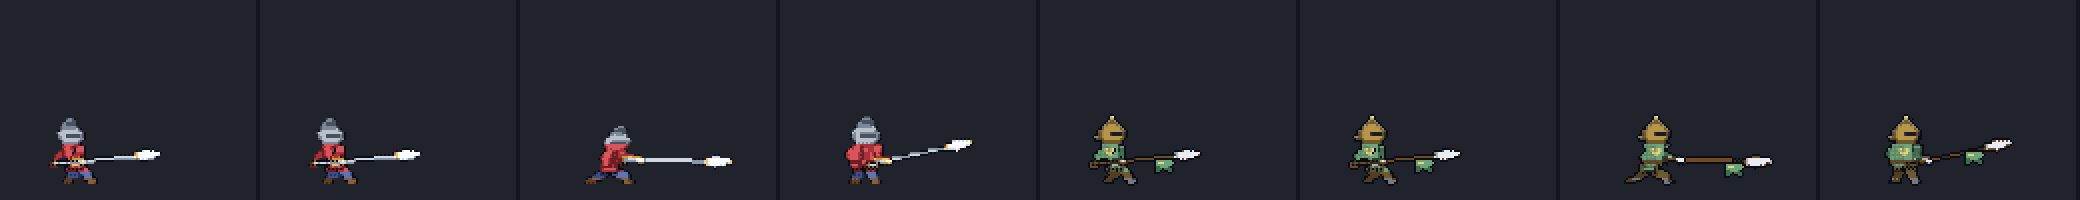
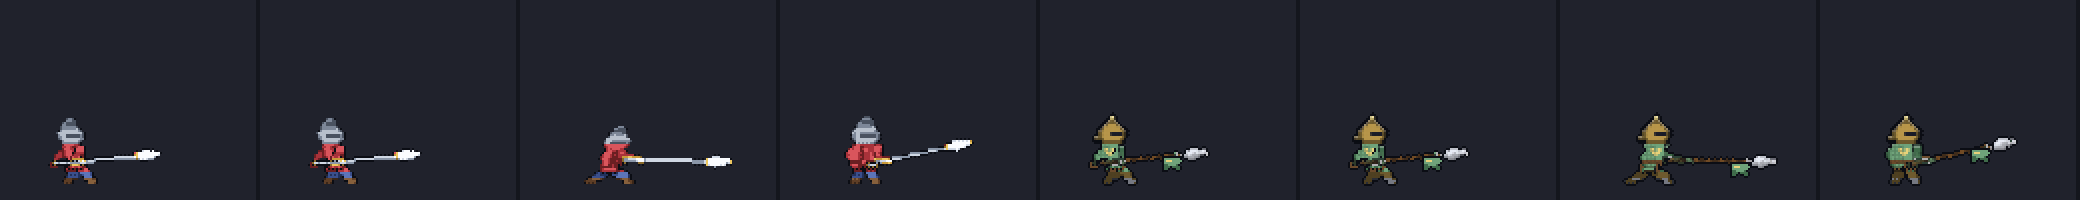
무기 덧그리기 공용 모듈 dev/sheets-common/wpn.py (손 점·각도에 직업 무기를 RotSprite 로 얹기), 창기사 계열 7종 입히기에 적용 (0회)

diff --git a/dev/sheets-common/wpn.py b/dev/sheets-common/wpn.py
@@ -1,0 +1,152 @@
+# 무기 덧그리기 (계열 공용, docs/specs/legacy-class-sheets.md — 2026-10-16 사용자 결정 "무기는 덧그리기, 0회").
+#  원형 마네킹 프레임의 무기(마네킹 모양)를 지우고, 그 자리 손잡이 점·각도에 원래 직업 무기 그림을 돌려 얹는다.
+#  돌리기는 RotSprite 식(크게 키워 nearest 회전 → 칸 가운데 표본으로 줄이기)이라 1px 선이 끊기지 않는다.
+#
+#  쓰는 법 (PIL RGBA, 알파 0/255):
+#    from wpn import WeaponSprite, overlay
+#    ws = WeaponSprite.from_capture(full, wcol, grip)       # 직업 그림 + 무기 색만 바꿔 찍은 그림 → 무기 그림, grip = 손 점 (x, y)
+#    out = overlay(frame, frame_wpn_mask, grip_xy, tip_xy, ws, front=glove_pts)
+#      frame_wpn_mask: 지울 무기 칸 집합 {(x,y)}, grip_xy: 프레임의 손 점, tip_xy: 무기 끝 쪽 아무 점 (방향만 쓴다)
+#      front: 무기 위에 다시 그릴 칸 (손·장갑) 집합
+#  보조: axis(pts) 주축, grip_tip(wpn_pts, glove_pts) 손 점과 끝 점, diff_pts(a, b) 두 그림이 다른 칸
+#  python -I -B wpn.py  → 자기 시험 (가짜 막대를 돌려 얹기)
+import math
+from PIL import Image
+
+OUT_C = (0x0b, 0x0d, 0x14, 255)
+
+
+def diff_pts(a, b):
+    """두 그림이 다른 칸 (무기 색만 바꿔 찍은 캡처와 비교 → 무기 칸)"""
+    A, B = a.load(), b.load()
+    return {(x, y) for y in range(a.height) for x in range(a.width) if (A[x, y][3] or B[x, y][3]) and A[x, y] != B[x, y]}
+
+
+def axis(pts):
+    """점들의 가운데와 주축 단위벡터 (2×2 공분산의 큰 고유벡터)"""
+    n = len(pts); cx = sum(p[0] for p in pts) / n; cy = sum(p[1] for p in pts) / n
+    sxx = sum((p[0] - cx) ** 2 for p in pts) / n; syy = sum((p[1] - cy) ** 2 for p in pts) / n; sxy = sum((p[0] - cx) * (p[1] - cy) for p in pts) / n
+    a = 0.5 * math.atan2(2 * sxy, sxx - syy)
+    return (cx, cy), (math.cos(a), math.sin(a))
+
+
+def grip_tip(wpn_pts, glove_pts):
+    """무기 칸과 손(장갑) 칸 → (손 점, 끝 점). 손 점 = 손 가운데를 무기 축에 내린 발, 끝 = 손에서 먼 쪽 끝"""
+    c, d = axis(list(wpn_pts))
+    ts = [(p[0] - c[0]) * d[0] + (p[1] - c[1]) * d[1] for p in wpn_pts]
+    t0, t1 = min(ts), max(ts)
+    if glove_pts:
+        gx = sum(p[0] for p in glove_pts) / len(glove_pts); gy = sum(p[1] for p in glove_pts) / len(glove_pts)
+        tg = (gx - c[0]) * d[0] + (gy - c[1]) * d[1]
+    else:
+        tg = t0 + (t1 - t0) * 0.3
+    tg = max(t0, min(t1, tg))
+    tt = t1 if abs(t1 - tg) >= abs(t0 - tg) else t0
+    P = lambda t: (c[0] + d[0] * t, c[1] + d[1] * t)
+    return P(tg), P(tt)
+
+
+class WeaponSprite:
+    """무기 그림 한 장 + 손 점 + 손→끝 각도"""
+
+    def __init__(self, img, grip, ang):
+        self.img, self.grip, self.ang = img, grip, ang
+
+    @classmethod
+    def from_capture(cls, full, wcol, glove_pts):
+        pts = diff_pts(full, wcol)
+        F = full.load(); W, H = full.size
+        img = Image.new('RGBA', (W, H)); O = img.load()
+        for p in pts:
+            if F[p][3]: O[p] = F[p]
+        g, t = grip_tip(pts, glove_pts)
+        bb = img.getbbox()
+        img = img.crop(bb); g = (g[0] - bb[0], g[1] - bb[1]); t = (t[0] - bb[0], t[1] - bb[1])
+        return cls(img, g, math.atan2(t[1] - g[1], t[0] - g[0]))
+
+
+def rotsprite(img, deg, pivot, S=8):
+    """pivot 칸 둘레로 deg 도(화면 기준 시계 방향 +) 돌린 그림과 새 pivot 칸. 크게 키워 nearest 로 돌리고 칸 가운데를 표본"""
+    W, H = img.size; px, py = int(round(pivot[0])), int(round(pivot[1]))
+    r = int(math.ceil(max(math.hypot(x - px, y - py) for x in (0, W) for y in (0, H)))) + 2
+    D = 2 * r + 1                                  # pivot 칸이 정가운데 (r, r) 에 오는 정사각 캔버스
+    pad = Image.new('RGBA', (D, D)); pad.paste(img, (r - px, r - py))
+    big = pad.resize((D * S, D * S), Image.NEAREST)
+    R = big.rotate(-deg, resample=Image.NEAREST, center=(D * S / 2, D * S / 2)); RP = R.load()
+    out = Image.new('RGBA', (D, D)); O = out.load()
+    for y in range(D):
+        for x in range(D):
+            c = RP[x * S + S // 2, y * S + S // 2]
+            O[x, y] = c if c[3] >= 128 else (0, 0, 0, 0)
+    return out, (r, r)
+
+
+def fill_holes(im, holes):
+    """지운 무기 자리 중 몸 안쪽(양쪽에 칠한 칸이 있는 곳)을 옆 색으로 메운다"""
+    P = im.load(); W, H = im.size
+    left = set(holes)
+    for _ in range(3):
+        done = set()
+        for (x, y) in left:
+            if P[x, y][3]: done.add((x, y)); continue
+            nb = [(x + a, y + b) for a, b in ((1, 0), (-1, 0), (0, 1), (0, -1)) if 0 <= x + a < W and 0 <= y + b < H]
+            opq = [q for q in nb if P[q][3] and q not in left]
+            horiz = sum(1 for q in opq if q[1] == y) == 2; vert = sum(1 for q in opq if q[0] == x) == 2
+            if horiz or vert or len(opq) >= 3:
+                cs = [P[q] for q in opq if P[q] != OUT_C] or [P[q] for q in opq]
+                P[x, y] = max(set(cs), key=cs.count); done.add((x, y))
+        left -= done
+        if not done: break
+    return im
+
+
+def outline(im, keep=()):
+    """바깥 가장자리에 외곽선 (keep 칸은 건드리지 않음)"""
+    P = im.load(); W, H = im.size; add = []
+    for y in range(H):
+        for x in range(W):
+            if P[x, y][3]: continue
+            if any(0 <= x + a < W and 0 <= y + b < H and P[x + a, y + b][3] and P[x + a, y + b] != OUT_C for a, b in ((1, 0), (-1, 0), (0, 1), (0, -1))):
+                add.append((x, y))
+    for p in add: P[p] = OUT_C
+    return im
+
+
+def overlay(frame, wpn_mask, grip_xy, tip_xy, ws, front=(), line=True):
+    """frame 의 무기 칸을 지우고 ws 를 grip_xy 에 tip_xy 방향으로 얹는다. front 칸(손)은 무기 위로 다시 그린다"""
+    out = frame.copy(); O = out.load(); F = frame.load()
+    for p in wpn_mask: O[p] = (0, 0, 0, 0)
+    # 지운 칸에 붙은 외곽선 찌꺼기(무기 외곽선)도 지운다: 무기 칸 옆의 외곽선 중 몸 칸과 안 닿는 것
+    W, H = out.size
+    for (x, y) in list(wpn_mask):
+        for a in (-1, 0, 1):
+            for b in (-1, 0, 1):
+                q = (x + a, y + b)
+                if 0 <= q[0] < W and 0 <= q[1] < H and O[q] == OUT_C and q not in wpn_mask:
+                    if not any(0 <= q[0] + c < W and 0 <= q[1] + d < H and O[q[0] + c, q[1] + d][3] and O[q[0] + c, q[1] + d] != OUT_C
+                               and (q[0] + c, q[1] + d) not in wpn_mask for c, d in ((1, 0), (-1, 0), (0, 1), (0, -1))):
+                        O[q] = (0, 0, 0, 0)
+    fill_holes(out, wpn_mask)
+    ang = math.atan2(tip_xy[1] - grip_xy[1], tip_xy[0] - grip_xy[0])
+    rot, piv = rotsprite(ws.img, math.degrees(ang - ws.ang), ws.grip)
+    x0, y0 = round(grip_xy[0] - piv[0]), round(grip_xy[1] - piv[1])
+    R = rot.load()
+    for y in range(rot.height):
+        for x in range(rot.width):
+            c = R[x, y]
+            if c[3] and 0 <= x0 + x < W and 0 <= y0 + y < H: O[x0 + x, y0 + y] = c
+    for p in front:
+        if F[p][3]: O[p] = F[p]
+    return outline(out) if line else out
+
+
+if __name__ == '__main__':
+    # 자기 시험: 가로 막대(손 점 왼쪽 끝 근처)를 만들고 45° 아래로 얹기
+    full = Image.new('RGBA', (40, 20)); wcol = Image.new('RGBA', (40, 20))
+    for x in range(4, 36):
+        full.putpixel((x, 10), (200, 200, 220, 255)); wcol.putpixel((x, 10), (255, 0, 255, 255))
+    for x in (34, 35): full.putpixel((x, 9), (255, 255, 255, 255)); wcol.putpixel((x, 9), (255, 0, 255, 255))
+    ws = WeaponSprite.from_capture(full, wcol, [(8, 10)])
+    fr = Image.new('RGBA', (48, 48)); fr.putpixel((10, 10), (255, 0, 0, 255))
+    o = overlay(fr, set(), (10, 10), (30, 30), ws, front=[(10, 10)])
+    print('grip', ws.grip, 'ang', round(math.degrees(ws.ang), 1), 'bbox', o.getbbox())

diff --git a/dev/spear/dress.py b/dev/spear/dress.py
@@ -14,6 +14,8 @@ from parts import parts, lum, OUT_C, bands, diff_mask
 from mannequin import RAMP
 from dress import classify, ramp_of, anchor, big, solid, palette_of, comfy_pass
 from common import tidy
+sys.path.insert(0, os.path.join(HERE, '..', 'sheets-common'))
+from wpn import WeaponSprite, overlay, grip_tip, diff_pts
 
 CELL = {'spear': (96, (24, 84)), 'halberd': (128, (56, 112))}
 ARCH = {'lancer': 'spear', 'dragoon': 'spear', 'dragonlord': 'spear', 'cavalier': 'spear', 'skyGeneral': 'spear',
@@ -120,6 +122,12 @@ def dress(cls, M, ref_pose='guard'):
         q = mv(p, hoff)
         if p[1] < neck and inN(q) and not O[q][3]: O[q] = Gpx[p]
     pal = palette_of(G)
+    # 무기 덧그리기 (사용자 결정 2026-10-16): 마네킹 모양 무기를 지우고 원래 직업 무기를 같은 손 점·각도로 얹는다 (dev/sheets-common/wpn.py)
+    blade = {p for p, v in MP.items() if v[0] == 'blade'}; glove = [p for p, v in MP.items() if v[0] == 'glove']
+    if blade:
+        ws = WeaponSprite.from_capture(full, cap('p-' + cls, ref_pose, 'wcol', arch), [p for p, k in CP.items() if k == 'glove'])
+        g, t = grip_tip(blade, glove)
+        o = overlay(o, blade, g, t, ws, front=glove)
     return o, MP, pal, ramps
 
 
@@ -147,6 +155,16 @@ def geo(MP):
     tip = max(blade, key=lambda p: (p[0] - p[1] * 0.0)) if blade else None
     return dict(hx=(min(hrow) + max(hrow)) // 2, hy=hb, htop=min(y for _, y in helm), hx0=min(x for x, _ in helm), hx1=max(x for x, _ in helm),
                 tx0=tx0, tx1=tx1, ty0=ty0, ty1=ty1, tip=tip, blade=blade)
+
+
+def wpn_now(o, cls, pz):
+    """덧그린 프레임에서 직업 무기 칸 (무기 색에 가까운 칸 중 몸 오른쪽 위) — 깃발 자리 찾기용"""
+    W = Image.open(os.path.join(HERE, 'shots', f'p-{cls}-guard-full.png')).convert('RGBA')
+    cols = {c[:3] for c in (W.get_flattened_data() if hasattr(W, 'get_flattened_data') else W.getdata()) if c[3]}
+    full = cap('p-' + cls, 'guard', 'noacc', ARCH[cls]); wcol = cap('p-' + cls, 'guard', 'wcol', ARCH[cls])
+    F = full.load(); wc = {F[p][:3] for p in diff_pts(full, wcol) if F[p][3]} - {OUT_C[:3]}
+    O = o.load()
+    return [(x, y) for y in range(o.height) for x in range(o.width) if O[x, y][3] and O[x, y][:3] in wc]
 
 
 def feat_lancer(o, g, P):
@@ -260,7 +278,7 @@ if __name__ == '__main__':
             o = tidy(o, pl, minc=6)
             o.save(os.path.join(od, f'{cls}-{pz}-d0.png'))
             if cls in FEAT:
-                g = geo(MP); f = o.copy(); FEAT[cls](f, g, P); f = outline_out(f)
+                g = geo(MP); g['blade'] = wpn_now(o, cls, pz); f = o.copy(); FEAT[cls](f, g, P); f = outline_out(f)
                 f.save(os.path.join(od, f'{cls}-{pz}-new.png'))
         cap('p-' + cls, 'guard', 'full', ARCH[cls]).save(os.path.join(od, f'{cls}-orig.png'))
     print('ok', od)

diff --git a/docs/specs/legacy-class-sheets.md b/docs/specs/legacy-class-sheets.md
@@ -94,6 +94,7 @@
   무기 칸은 `onlyWeapon` 캡처가 전투 대기 자세를 따르지 않아(창을 세움) 무기 색만 바꿔 찍은 차이로 얻는다(`capture.js spearParts` wcol). 사용자 결정 "생성 때 틀을 바꾼다"에 따라 실루엣 시안: 창기사 제비꼬리 깃발 · 용기병 날개꼴 망토+용비늘 견갑 · 용황 왕관+큰 꼬리 장식 (손 도트, 직업 팔레트). 검토 `dev/review/sheets-spear.html` 5절.
   남은 문제: 입히기가 무기를 마네킹 모양으로 그려 랜서·천마장군 돌격창·전쟁군주 도끼창 모양이 사라진다 — 무기 덧그리기 또는 무기별 원형 필요.
 
+- 2026-10-16 사용자 결정 (로드맵 경유): 창기사 계열 실루엣 시안 3종 확정, 무기는 **덧그리기** (0회). 공용 모듈 `dev/sheets-common/wpn.py` — 프레임 무기 칸 주축 + 장갑 → 손 점·끝 점(`grip_tip`), 직업 무기 그림(`WeaponSprite.from_capture`: 무기 색만 바꾼 캡처 차이)을 RotSprite 식으로 돌려 얹기(`overlay`, 지운 자리 메우기·장갑 위로·외곽선). 창 계열 7종 입히기에 적용 (랜서·천마장군 돌격창, 전쟁군주 도끼창 복구). 용황창이 길어 임시 찌르기 자세에서 96칸 끝에 닿음 — 실제 동작에서 다시 본다.
 ## 남은 일 / 미정
 - 계열별 구현 세션 결과를 받아 전후 비교를 사용자에게 보여 주고 직업별로 켤지 정한다.
 - 예산이 모자라면 남은 직업은 다음 달 초기화분으로 넘긴다.
